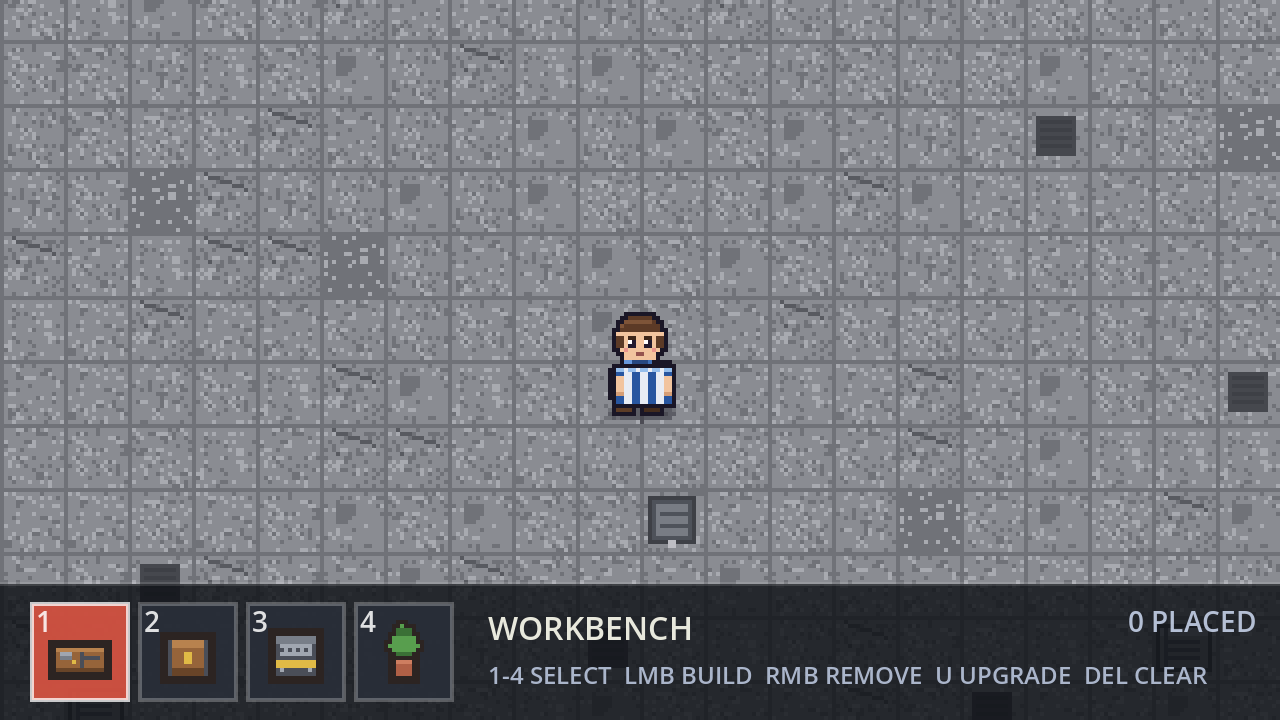
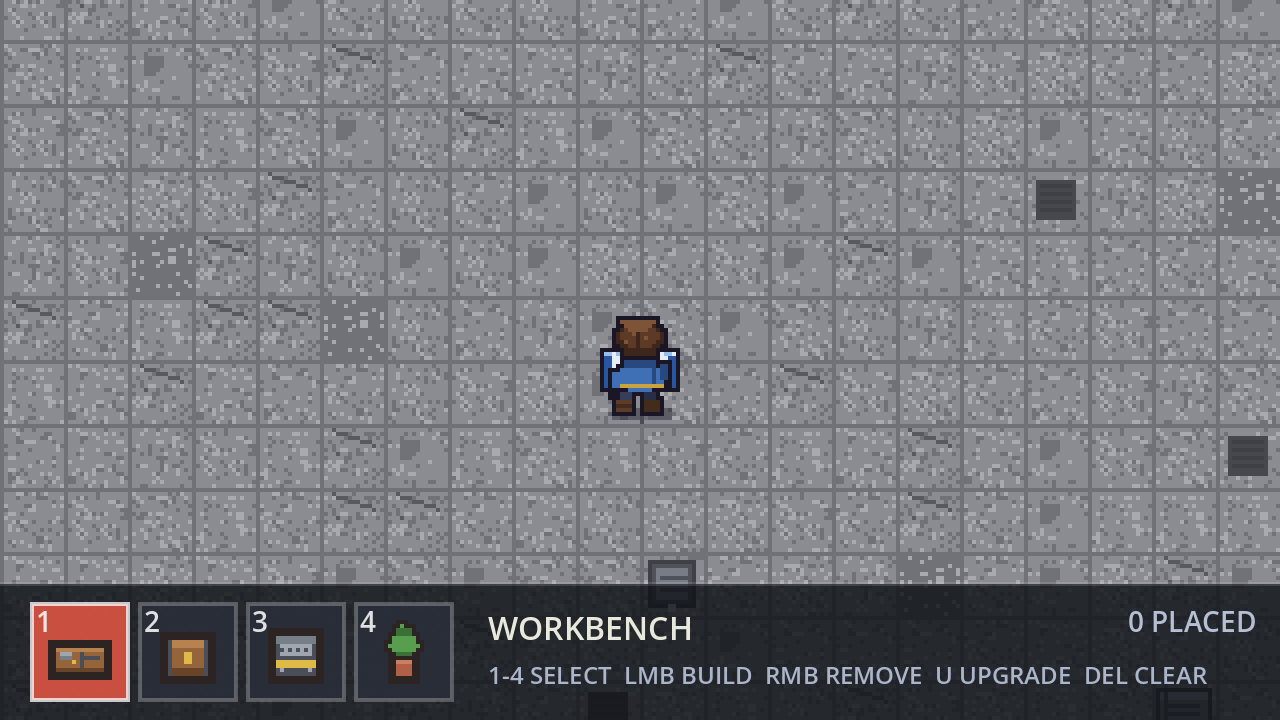
fix: 背影帧去掉肩上和腰带上的多余肤色像素（改用无手身体 + 肤色清理）

Changed region(s): [[0.0, 0.0, 1.0, 0.825], [0.8125, 0.7639, 0.8438, 0.825]]

diff --git a/tools/make_build_sheet.py b/tools/make_build_sheet.py
@@ -19,6 +19,7 @@ ASEPRITE = Path(r"C:\game\Aseprite.v1.3.17\Aseprite.exe")
 LUA = ROOT / "tools" / "dump_gun_frames.lua"
 SOURCE = ROOT / "assets" / "character.aseprite"
 UNARMED = ROOT / "assets" / "character_sheet_unarmed.png"
+PLAIN = ROOT / "assets" / "character_sheet.png"
 OUTPUT = ROOT / "assets" / "character_sheet_build.png"
 
 OUTLINE = (26, 22, 38, 255)
@@ -74,6 +75,24 @@ def put(px, x, y, color):
         px[int(x), int(y)] = color
 
 
+def strip_skin(image: Image) -> None:
+    """把画面里的肤色像素（多余的手/脖子）用周围颜色补掉。"""
+    from collections import Counter
+    px = image.load()
+    pts = [(x, y) for y in range(32) for x in range(32) if is_skin(px[x, y])]
+    for (x, y) in pts:
+        counts = Counter()
+        for dx, dy in ((1, 0), (-1, 0), (0, 1), (0, -1)):
+            nx, ny = min(31, max(0, x + dx)), min(31, max(0, y + dy))
+            c = px[nx, ny]
+            if c[3] > 0 and not is_skin(c):
+                counts[c] += 1
+        if counts:
+            px[x, y] = counts.most_common(1)[0][0]
+        else:
+            px[x, y] = (0, 0, 0, 0)
+
+
 def hands_of(image: Image):
     """找出这一帧两只手的位置（左上 / 右半个 x）。"""
     px = image.load()
@@ -98,6 +117,7 @@ def dump_gun_frames(tmp: Path) -> None:
 
 def main() -> None:
     sheet = Image.open(UNARMED).convert("RGBA")
+    plain = Image.open(PLAIN).convert("RGBA")
     out = sheet.copy()
 
     with tempfile.TemporaryDirectory() as tmpdir:
@@ -106,7 +126,9 @@ def main() -> None:
 
         for i in range(28):
             direction = i // 7
-            frame = out.crop((i * 32, 0, (i + 1) * 32, 32))
+            # 背影用“无手”身体，避免肩上那两个肤色点和腰带上那道肤色线
+            source = plain if direction == 1 else out
+            frame = source.crop((i * 32, 0, (i + 1) * 32, 32))
             px = frame.load()
 
             gun = Image.open(tmp / f"_gunframe_{i + 1:02d}.png").convert("RGBA")
@@ -118,10 +140,14 @@ def main() -> None:
             mid_y = sum(h[1] for h in hands) / len(hands)
 
             if direction == 1:
-                # 背对镜头：纸抱在身前、被身体挡住，只露出左右两边
+                # 背影：无手身体 + 去掉多余肤色（肩上的点和腰带上的线）
+                body = plain.crop((i * 32, 0, (i + 1) * 32, 32))
+                strip_skin(body)
+                frame = body.copy()
+                px = frame.load()
+
+                # 纸比身体宽，抱在身前，被身体挡住只露两边
                 draw_blueprint(px, 16, mid_y + 2, direction, width=20)
-                body = Image.open(UNARMED).convert("RGBA").crop(
-                    (i * 32, 0, (i + 1) * 32, 32))
                 body_px = body.load()
                 for yy in range(32):
                     for xx in range(32):

diff --git a/README.md b/README.md
@@ -578,7 +578,8 @@ after 3.5s-> 0 只（确认不再刷）
   `E - GO DOWNTOWN` 提示。
 - **建造模式换姿势**：按 Tab 后角色换成**双手捧着一张报纸大小的图纸**（蓝白相间的竖条纹、
   深色描边、上下有卷边高光，双手扶在图纸左右两侧），`character_sheet_build.png` 四个方向
-  的 idle + 走路都有；**面朝上（背对镜头）时图纸抱在身前、被身体挡住，只从身体两边露出一点纸边**；
+  的 idle + 走路都有；**面朝上（背对镜头）时图纸抱在身前、被身体挡住，只从身体两边露出一点纸边**
+  （背影帧用无手身体并清掉多余肤色，肩膀和腰带上不会有奇怪的肉色像素）；
   退出建造模式再换回空手。
 - **按 Tab 进 / 出建造模式**：不按 Tab 时就是纯走路，底部只有一行 `TAB - BUILD` 提示；
   按 Tab 才弹出底部家具栏，此时才能选家具、放置、拆除、升级。
